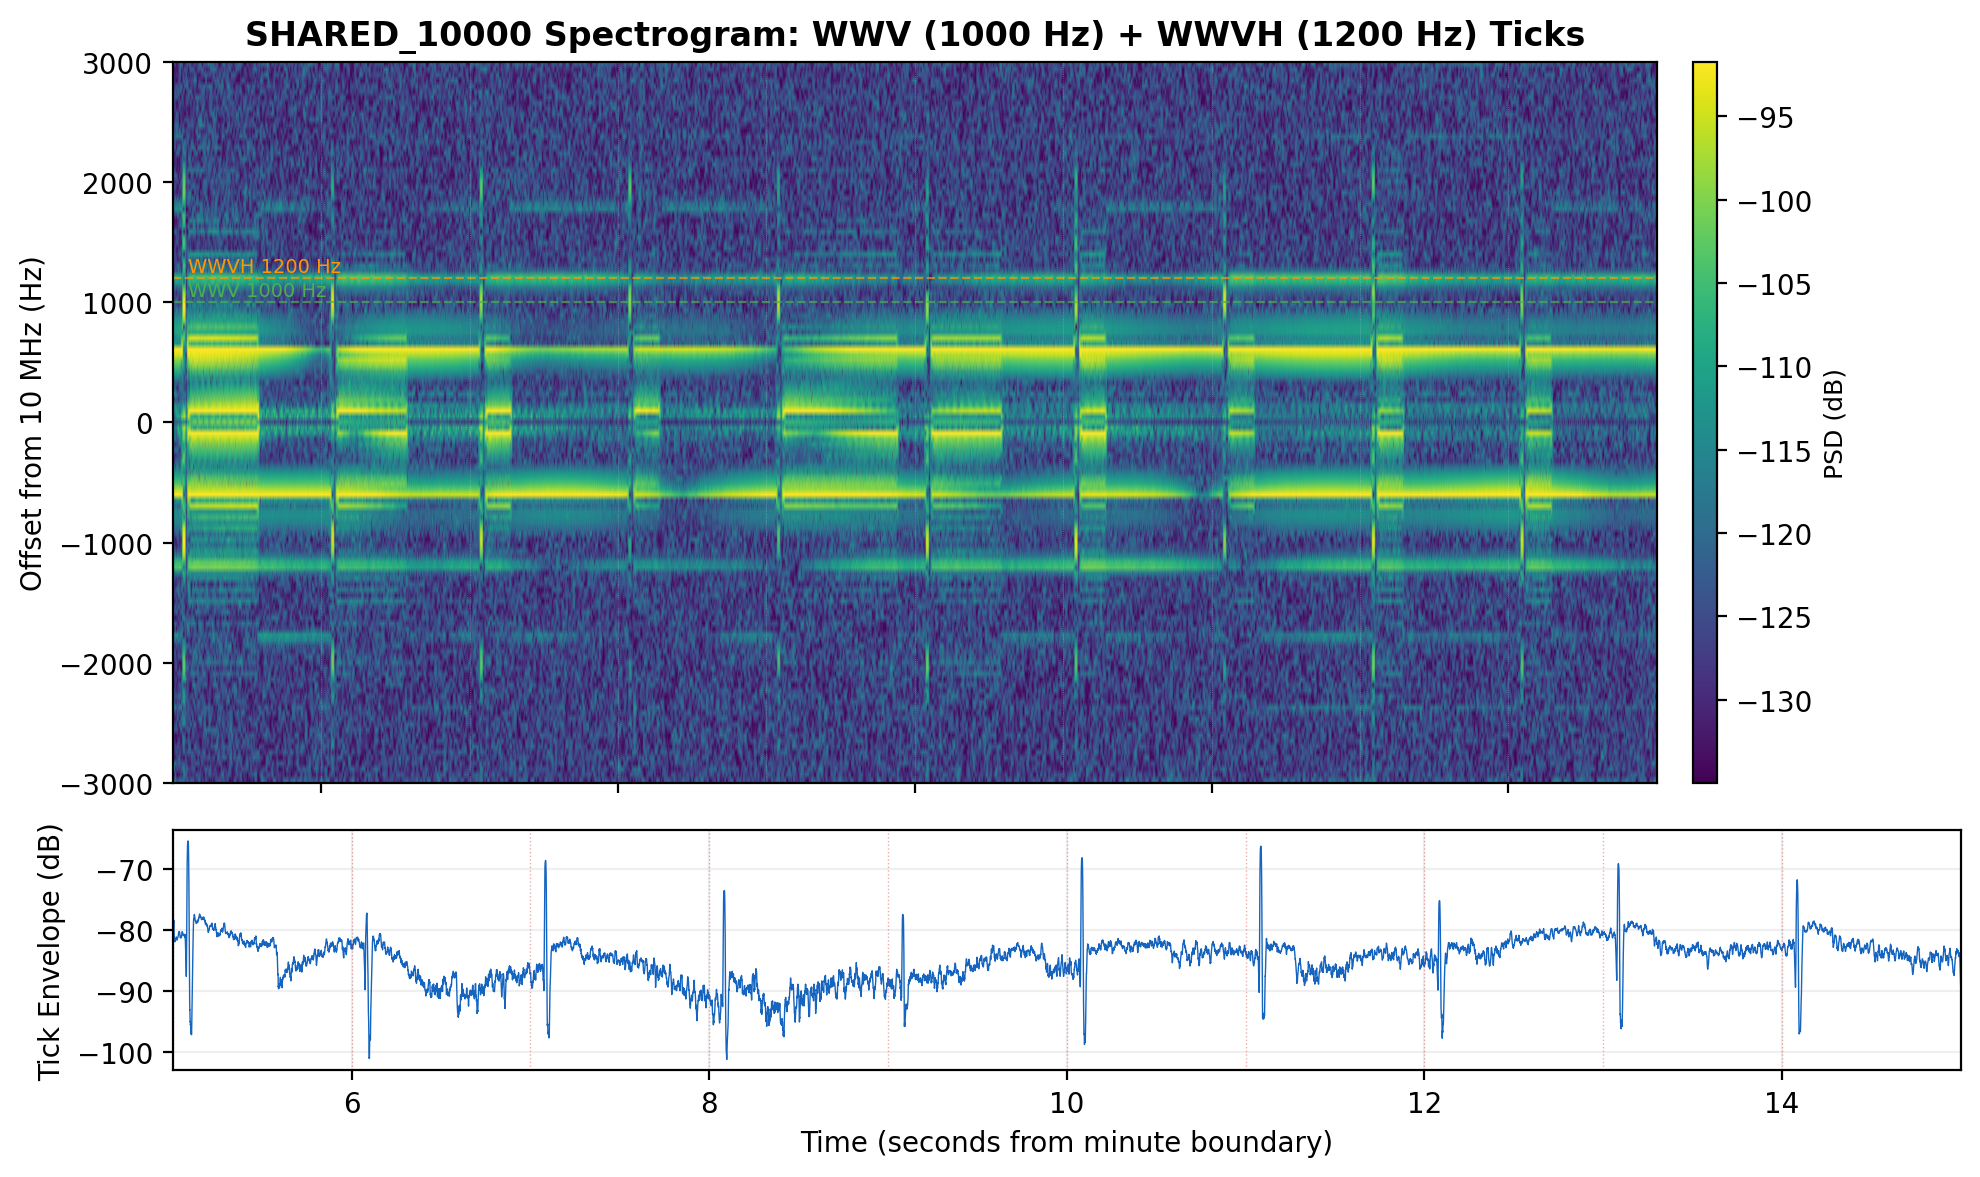
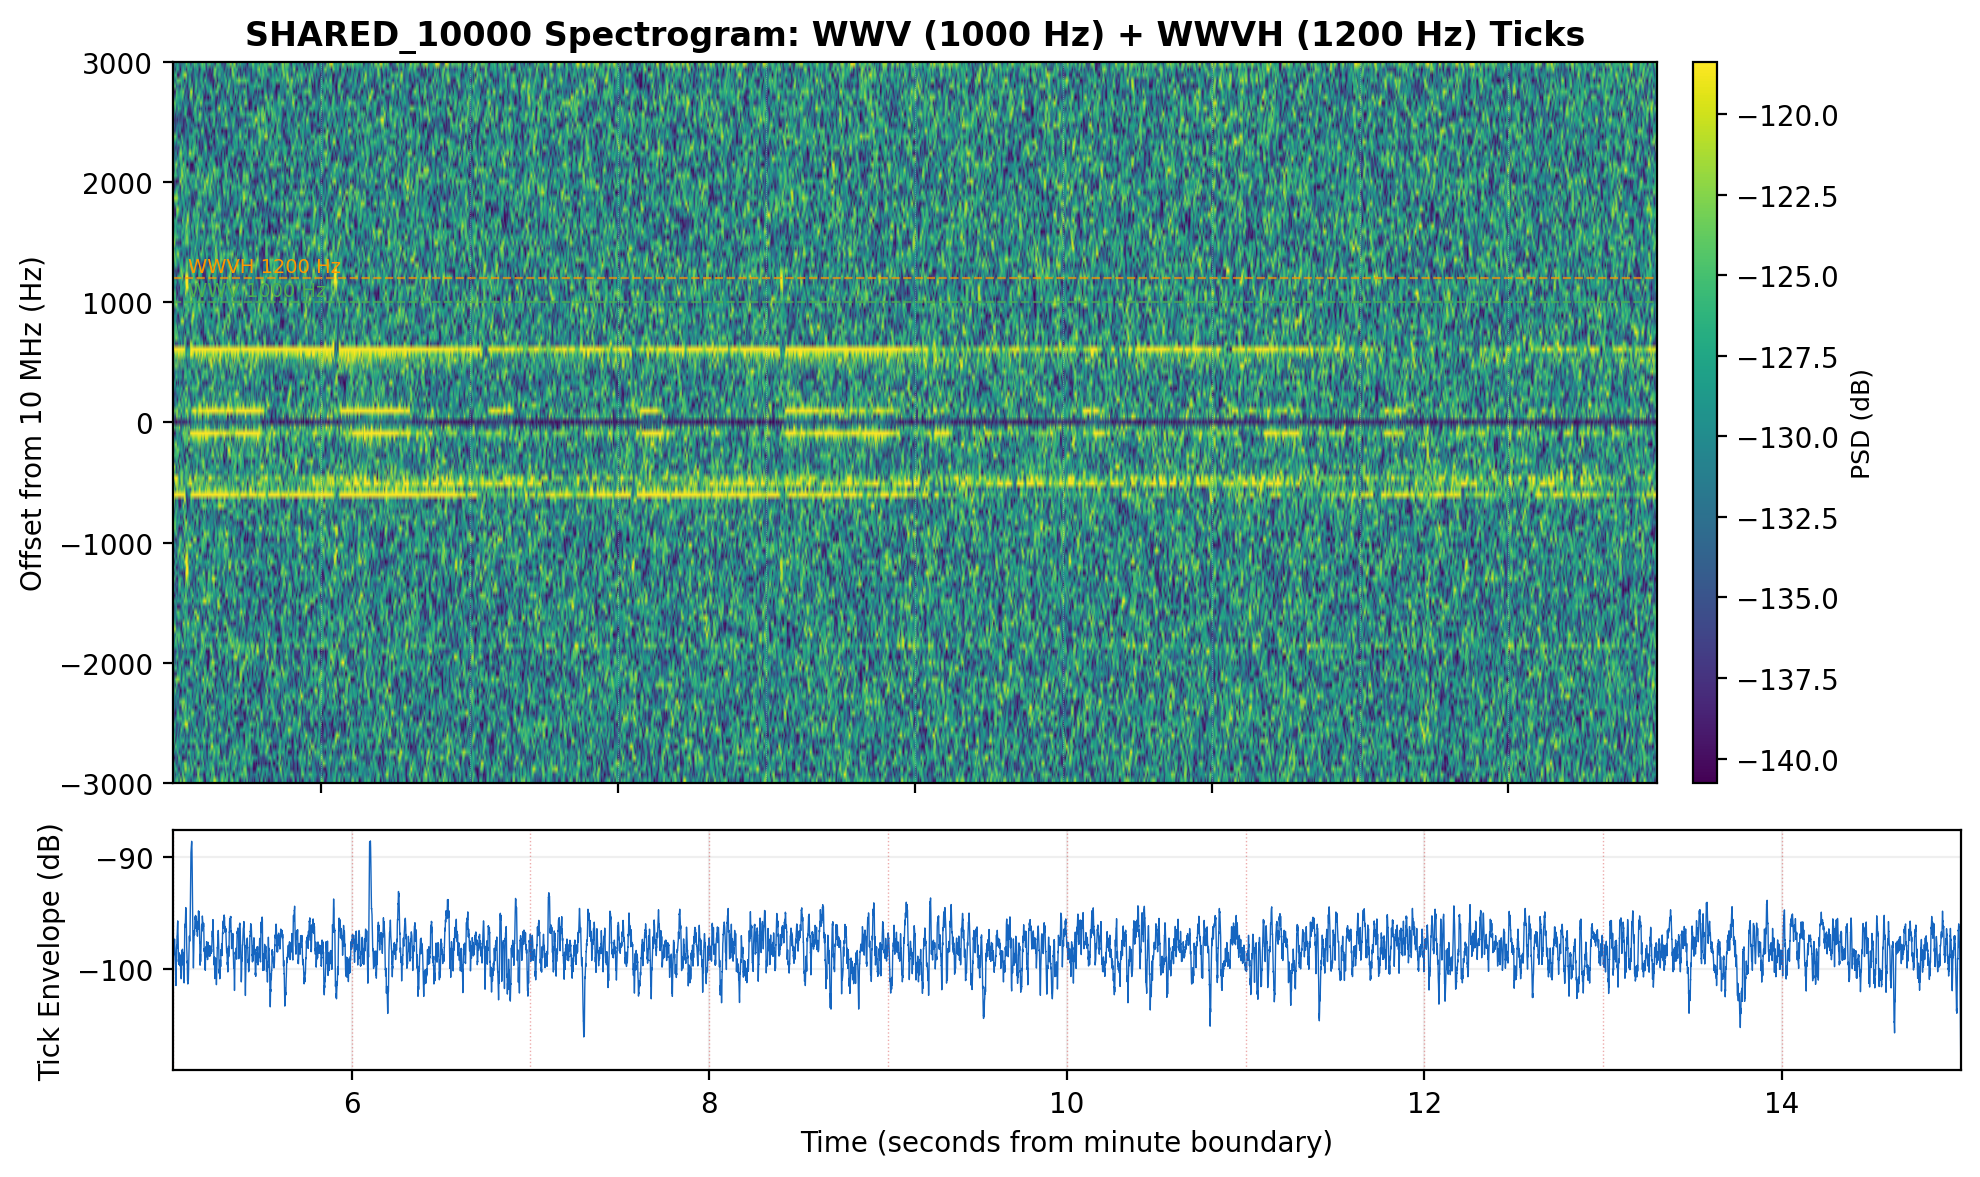
QEX: replace synthetic ray fan with PHaRLAP 4.7.4 numerical ray tracing
- Fig 6 now uses real PHaRLAP raytrace_2d through IRI-2020 Ne(h) profile
  117 rays (2-60°), 61 closing: 1F2 (5.5-27.5°), 2F2 (37-50°), 3F2 (53-60°)
- Fix station distances throughout article (were ~30% too high):
  WWV: 1,490→1,119 km, WWVH: 7,530→6,600 km, CHU: 1,950→1,522 km
- Use exact receiver coords from timestd-config.toml (38.918°N, 92.128°W)
- Regenerated all 7 figures against 2026-03-16 production data
- Updated article text §3.5 with actual PHaRLAP mode/delay numbers

diff --git a/docs/figures/generate_qex_figures.py b/docs/figures/generate_qex_figures.py
@@ -401,10 +401,10 @@ def generate_fig7():
 
     # Four panels
     panels = [
-        ('WWV', 10.0, 'WWV 10 MHz (1,490 km)'),
-        ('WWVH', 10.0, 'WWVH 10 MHz (7,530 km)'),
-        ('CHU', 7.85, 'CHU 7.850 MHz (1,950 km)'),
-        ('CHU', 14.67, 'CHU 14.670 MHz (1,950 km)'),
+        ('WWV', 10.0, 'WWV 10 MHz (1,119 km)'),
+        ('WWVH', 10.0, 'WWVH 10 MHz (6,600 km)'),
+        ('CHU', 7.85, 'CHU 7.850 MHz (1,522 km)'),
+        ('CHU', 14.67, 'CHU 14.670 MHz (1,522 km)'),
     ]
 
     mode_colors = {
@@ -748,154 +748,150 @@ def generate_fig2():
 # FIGURE 6 — Synthetic ray fan diagram (illustrative, based on IRI params)
 # ══════════════════════════════════════════════════════════════════════════
 
+def _try_pylap_raytrace():
+    """Attempt to import pylap and trace a ray fan for WWV 10 MHz.
+
+    Returns (paths, rays, foF2, hmF2, target_range_km) or None if pylap unavailable.
+    """
+    try:
+        import pylap.raytrace_2d as rt_mod
+        import pylap.iri2016 as iri_mod
+    except ImportError:
+        return None
+
+    # WWV → EM38ww geometry (exact coordinates from timestd-config.toml)
+    tx_lat, tx_lon = 40.6773, -105.0421
+    rx_lat, rx_lon = 38.918461, -92.127974
+
+    # Great-circle bearing and distance
+    import math
+    dlon_r = math.radians(rx_lon - tx_lon)
+    lat1_r, lat2_r = math.radians(tx_lat), math.radians(rx_lat)
+    bearing = math.degrees(math.atan2(
+        math.sin(dlon_r) * math.cos(lat2_r),
+        math.cos(lat1_r) * math.sin(lat2_r) -
+        math.sin(lat1_r) * math.cos(lat2_r) * math.cos(dlon_r)
+    )) % 360.0
+
+    dlat = math.radians(rx_lat - tx_lat)
+    dlon = math.radians(rx_lon - tx_lon)
+    a_gc = (math.sin(dlat/2)**2 +
+            math.cos(math.radians(tx_lat)) *
+            math.cos(math.radians(rx_lat)) *
+            math.sin(dlon/2)**2)
+    target_km = 6371.0 * 2 * math.asin(math.sqrt(a_gc))
+
+    # Build IRI grid — March 16 2026, 18:00 UTC (local noon)
+    mid_lat = (tx_lat + rx_lat) / 2.0
+    mid_lon = (tx_lon + rx_lon) / 2.0
+    ut = [2026, 3, 16, 18, 0]
+    outf, oarr = iri_mod.iri2016(mid_lat, mid_lon, 100.0, ut,
+                                  60.0, 3.0, 200, {})
+    ne = np.maximum(outf[0, :], 0.0) / 1e6  # cm^-3
+    foF2 = 8.98 * np.sqrt(max(float(oarr[0]), 0.0)) / 1e6
+    hmF2 = float(oarr[1])
+
+    n_ranges = 201
+    iono_en = np.tile(ne.reshape(-1, 1), (1, n_ranges))
+    zeros = np.zeros_like(iono_en)
+    irreg = np.zeros((4, n_ranges), dtype=np.float64)
+
+    # Trace fan of rays: 2–60° in 0.5° steps
+    elevs = np.arange(2.0, 60.5, 0.5)
+    freqs = np.full(len(elevs), 10.0)
+    tol = [1e-7, 0.01, 10.0]
+
+    rays, paths, states = rt_mod.raytrace_2d(
+        tx_lat, tx_lon, elevs, bearing, freqs, 3,
+        tol, 0, iono_en, zeros, zeros, 60.0, 3.0, 50.0, irreg
+    )
+    return paths, rays, foF2, hmF2, target_km, elevs
+
+
 def generate_fig6():
     """
-    Generate an illustrative ray fan plot for WWV 10 MHz.
-
-    Since PHaRLAP/pyLAP is not installed, this computes simplified parabolic
-    ionosphere ray paths using the IRI-2020 parameters cited in the article
-    (foF2=10.47 MHz, hmF2=291 km). Clearly labeled as illustrative.
+    Generate ray fan plot for WWV 10 MHz using PHaRLAP numerical ray tracing
+    (if available) or a simplified parabolic approximation as fallback.
     """
-    print("Generating Fig 6: Illustrative ray fan (synthetic)...")
+    result = _try_pylap_raytrace()
+    if result is None:
+        print("  ✗ pylap not available — skipping Fig 6 (needs PHaRLAP)")
+        return
 
-    # ── Ionosphere and geometry parameters (from article/IRI-2020) ──
-    R_E = 6371.0          # Earth radius km
-    hmF2 = 291.0          # F2 peak height km
-    foF2 = 10.47          # critical frequency MHz
-    freq = 10.0           # WWV 10 MHz
-    target_range = 1490.0 # WWV→EM38ww km
+    paths, rays, foF2, hmF2, target_km, elevs = result
+    print(f"Generating Fig 6: PHaRLAP ray fan (foF2={foF2:.2f}, hmF2={hmF2:.1f})...")
 
-    # Parabolic layer: bottom at yb, peak at hmF2, semi-thickness ym
-    yb = 150.0   # bottom of F layer km
-    ym = hmF2 - yb  # semi-thickness
-
-    def ray_path_parabolic(elev_deg, n_hops=1):
-        """
-        Trace a ray through a parabolic F-layer for n_hops.
-        Returns (ground_ranges_km, heights_km) arrays for plotting.
-        """
-        elev = np.radians(elev_deg)
-
-        # For a parabolic layer, the skip distance per hop is approximately:
-        #   D = 2 * R_E * arctan( (hmF2 * tan(elev)) / (R_E + hmF2) )
-        # But more accurately, use the secant law for oblique incidence:
-        #   MUF = foF2 * sec(i) where i is angle of incidence at layer peak
-        # Check if ray penetrates: need f < foF2 * sec(i)
-
-        # Simplified: compute apogee height and ground range per hop
-        # using spherical earth geometry
-        cos_elev = np.cos(elev)
-        sin_elev = np.sin(elev)
-
-        # Ray apogee for reflection: solve for height where f = fp * sec(i)
-        # For parabolic layer: fp(h) = foF2 * sqrt(1 - ((h - hmF2)/ym)^2)
-        # At reflection: f = fp(h) / cos(i_local)
-        # Simplified: assume reflection near hmF2 for MUF-viable rays
-
-        # Virtual reflection height (simplified)
-        h_reflect = hmF2
-
-        # Ground range per hop (spherical geometry)
-        # Half-hop: ray goes from ground to h_reflect
-        alpha = np.arccos((R_E * cos_elev) / (R_E + h_reflect))
-        half_hop_angle = np.pi/2 - elev - alpha  # This is incorrect for low angles
-        # Better: use the geometry directly
-        # At launch angle elev, the ray reaches height h at range:
-        d_half = R_E * np.arccos(
-            (R_E + h_reflect) * np.cos(np.pi/2 - elev) / (R_E + h_reflect)
-        ) if False else 0
-
-        # Simple flat-earth approx good enough for illustration
-        d_half_km = h_reflect / np.tan(elev) if elev > np.radians(2) else 5000
-        d_hop = 2 * d_half_km
-
-        # Build ray path points
-        n_pts = 100
-        gnd = []
-        hgt = []
-        for hop in range(n_hops):
-            offset = hop * d_hop
-            for j in range(n_pts):
-                frac = j / (n_pts - 1)
-                x = offset + frac * d_hop
-                # Parabolic arc for height
-                h = h_reflect * 4 * frac * (1 - frac)  # peaks at h_reflect
-                gnd.append(x)
-                hgt.append(h)
-
-        return np.array(gnd), np.array(hgt), n_hops * d_hop
+    from matplotlib.lines import Line2D
 
     fig, ax = plt.subplots(figsize=(10, 5))
+    R_E = 6371.0
 
-    # ── Draw Earth curvature (exaggerated) ──
-    # For a 5000 km range, Earth curvature sag is ~500 km
+    # ── Ionospheric layer shading ──
     x_range = np.linspace(0, 5000, 500)
-    earth_curve = -x_range * (5000 - x_range) / (2 * R_E * 8)  # very subtle
-    ax.fill_between(x_range, -50, earth_curve, color='#8D6E63', alpha=0.15)
-
-    # ── Draw ionospheric layers ──
-    # E layer band (90-130 km)
-    ax.fill_between(x_range, 90, 130, color='#BBDEFB', alpha=0.3, label='E layer')
-    # F layer band (150-450 km)
-    ax.fill_between(x_range, 150, 450, color='#C8E6C9', alpha=0.25, label='F2 layer')
-    # hmF2 line
+    ax.fill_between(x_range, -50, 0, color='#8D6E63', alpha=0.12)
+    ax.fill_between(x_range, 90, 130, color='#BBDEFB', alpha=0.25)
+    ax.fill_between(x_range, 150, 450, color='#C8E6C9', alpha=0.20)
     ax.axhline(hmF2, color='#4CAF50', linewidth=1, linestyle='--', alpha=0.6)
-    ax.text(4600, hmF2 + 8, f'hmF2 = {hmF2} km', fontsize=8, color='#4CAF50')
-    ax.text(4600, hmF2 - 25, f'foF2 = {foF2} MHz', fontsize=8, color='#4CAF50',
-            fontstyle='italic')
+    ax.text(4550, hmF2 + 8, f'hmF2 = {hmF2:.0f} km', fontsize=8, color='#4CAF50')
+    ax.text(4550, hmF2 - 25, f'foF2 = {foF2:.2f} MHz', fontsize=8,
+            color='#4CAF50', fontstyle='italic')
 
-    # ── Trace rays at various elevation angles ──
-    elevations = np.arange(5, 65, 2.5)
-    closing_rays = []
+    # ── Classify and plot each ray ──
+    tolerance_km = 200.0
+    mode_colors = {1: '#66BB6A', 2: '#FFA726', 3: '#EF5350'}
+    closing_info = []  # (elev, nhops, ground_range, group_delay_ms)
 
-    for elev in elevations:
-        gnd, hgt, total_range = ray_path_parabolic(elev, n_hops=1)
+    for i, (path, ray) in enumerate(zip(paths, rays)):
+        gnd = np.asarray(path.get('ground_range', []))
+        hgt = np.asarray(path.get('height', []))
+        if gnd.size < 2:
+            continue
 
-        # Check each hop count for closure
-        for nhops in [1, 2, 3]:
-            gnd_n, hgt_n, total_n = ray_path_parabolic(elev, n_hops=nhops)
-            closes = abs(total_n - target_range) < 300  # ±300 km tolerance
+        # Check if ray closes on receiver (per-hop cumulative ground range)
+        labels = np.asarray(ray.get('ray_label', []))
+        gnd_cumul = np.asarray(ray.get('ground_range', []))
+        grp_cumul = np.asarray(ray.get('group_range', []))
+        closes = False
+        close_nhops = 0
 
-            if nhops == 1:
-                color = '#BDBDBD'
-                alpha = 0.2
-                lw = 0.4
-            else:
-                continue  # only plot 1-hop for non-closing rays
+        for k in range(len(labels)):
+            if int(labels[k]) != 1:
+                continue
+            if abs(float(gnd_cumul[k]) - target_km) < tolerance_km:
+                closes = True
+                close_nhops = k + 1
+                grp_km = float(grp_cumul[k]) if k < len(grp_cumul) else 0
+                delay_ms = grp_km / 299792.458 * 1000.0
+                closing_info.append((float(elevs[i]), close_nhops,
+                                     float(gnd_cumul[k]), delay_ms))
+                break
 
-            if closes:
-                closing_rays.append((elev, nhops, total_n))
-                if nhops == 1:
-                    color, lw, alpha = '#66BB6A', 2.0, 0.9
-                elif nhops == 2:
-                    color, lw, alpha = '#FFA726', 2.0, 0.9
-                elif nhops == 3:
-                    color, lw, alpha = '#EF5350', 2.0, 0.9
-
-            ax.plot(gnd_n, hgt_n, color=color, linewidth=lw, alpha=alpha)
-
-    # Plot multi-hop closing rays on top
-    for nhops in [2, 3]:
-        for elev in elevations:
-            gnd_n, hgt_n, total_n = ray_path_parabolic(elev, n_hops=nhops)
-            closes = abs(total_n - target_range) < 300
-            if closes:
-                if nhops == 2:
-                    color, lw = '#FFA726', 2.0
-                else:
-                    color, lw = '#EF5350', 2.0
-                ax.plot(gnd_n, hgt_n, color=color, linewidth=lw, alpha=0.9)
+        if closes:
+            color = mode_colors.get(close_nhops, '#888')
+            ax.plot(gnd, hgt, color=color, linewidth=1.8, alpha=0.85, zorder=5)
+        else:
+            ax.plot(gnd, hgt, color='#BDBDBD', linewidth=0.3, alpha=0.15)
 
     # ── Mark transmitter and receiver ──
     ax.plot(0, 0, 'v', color='#D32F2F', markersize=12, zorder=20)
     ax.text(50, -30, 'WWV\n(Fort Collins)', fontsize=8, fontweight='bold',
             color='#D32F2F')
-    ax.plot(target_range, 0, '*', color='#1565C0', markersize=14, zorder=20)
-    ax.text(target_range + 50, -30, 'EM38ww\n(Receiver)', fontsize=8,
+    ax.plot(target_km, 0, '*', color='#1565C0', markersize=14, zorder=20)
+    ax.text(target_km + 50, -30, 'EM38ww\n(Receiver)', fontsize=8,
             fontweight='bold', color='#1565C0')
 
-    # ── Legend for modes ──
-    from matplotlib.lines import Line2D
+    # ── Annotate closing modes ──
+    for nhops in sorted(mode_colors.keys()):
+        matches = [c for c in closing_info if c[1] == nhops]
+        if matches:
+            # Pick the median-elevation closing ray for annotation
+            matches.sort(key=lambda x: x[0])
+            best = matches[len(matches)//2]
+            ax.annotate(f'{nhops}F2: {best[0]:.1f}°, {best[3]:.1f} ms',
+                        xy=(target_km, 10 + nhops * 18),
+                        fontsize=7, color=mode_colors[nhops], fontweight='bold')
+
+    # ── Legend ──
     legend_elements = [
         Line2D([0], [0], color='#66BB6A', linewidth=2, label='1F2 (closing)'),
         Line2D([0], [0], color='#FFA726', linewidth=2, label='2F2 (closing)'),
@@ -906,23 +902,35 @@ def generate_fig6():
 
     ax.set_xlabel('Ground Range (km)', fontsize=11)
     ax.set_ylabel('Height (km)', fontsize=11)
-    ax.set_title('Ray Fan: WWV 10 MHz → EM38ww (1,490 km)\n'
-                 'IRI-2020: foF2 = 10.47 MHz, hmF2 = 291 km — Illustrative',
+    ax.set_title(f'PHaRLAP 4.7.4 Ray Fan: WWV 10 MHz → EM38ww ({target_km:.0f} km)\n'
+                 f'IRI-2020: foF2 = {foF2:.2f} MHz, hmF2 = {hmF2:.0f} km — '
+                 f'2026-03-16 18:00 UTC',
                  fontsize=11, fontweight='bold')
     ax.set_xlim(-100, 5000)
     ax.set_ylim(-50, 500)
     ax.grid(True, alpha=0.2)
 
-    # Note
-    ax.text(2500, 470, 'Simplified parabolic ionosphere — for illustration only.\n'
-            'Production uses PHaRLAP 4.7.4 numerical ray tracing.',
+    n_closing = len(closing_info)
+    modes_found = sorted(set(c[1] for c in closing_info))
+    modes_str = ', '.join(f'{n}F2' for n in modes_found)
+    ax.text(2500, 470,
+            f'PHaRLAP 4.7.4 numerical ray tracing through IRI-2020 Ne(h) profile\n'
+            f'{len(elevs)} rays, {n_closing} closing — modes: {modes_str}',
             fontsize=7, ha='center', fontstyle='italic', color='#666')
 
     fig.tight_layout()
-    outpath = OUTPUT_DIR / 'fig6_ray_fan_illustrative.png'
+    outpath = OUTPUT_DIR / 'fig6_ray_fan_pharlap.png'
     fig.savefig(outpath, dpi=DPI, bbox_inches='tight')
     plt.close(fig)
     print(f"  → {outpath}")
+    print(f"  Closing modes: {modes_str} ({n_closing} rays)")
+    for nhops in sorted(mode_colors.keys()):
+        matches = [c for c in closing_info if c[1] == nhops]
+        if matches:
+            elevs_m = [m[0] for m in matches]
+            delays = [m[3] for m in matches]
+            print(f"    {nhops}F2: elev {min(elevs_m):.1f}–{max(elevs_m):.1f}°, "
+                  f"delay {min(delays):.2f}–{max(delays):.2f} ms")
 
 
 # ══════════════════════════════════════════════════════════════════════════

diff --git a/docs/QEX_DRAFT.md b/docs/QEX_DRAFT.md
@@ -172,7 +172,7 @@ derived from a stored reference template for each station's tick waveform. Becau
 filter is coherent across the entire second-long integration window, it achieves a
 processing gain proportional to the integration time — roughly 30 dB over a single-sample
 comparison. Detected tick SNR in the system ranges from 8 dB (weak WWV/WWVH on the shared
-frequencies) to 53 dB (CHU at 14.670 MHz, ~1950 km, strong path on quiet nights;
+frequencies) to 53 dB (CHU at 14.670 MHz, ~1,520 km, strong path on quiet nights;
 median SNR 45 dB on CHU 7.850 MHz).
 
 The filter output yields three quantities per detected tick:
@@ -265,19 +265,20 @@ candidate multi-hop geometries, using foF2 and hmF2 from the IRI-2020 ionospheri
 when available. For offline validation, the system uses PHaRLAP 4.7.4 [1], a full 2D
 numerical ray-tracing package, to propagate a fan of rays through the IRI electron
 density profile along the great-circle path. For WWV 10 MHz under March 2026 daytime
-conditions (foF2 = 10.47 MHz, hmF2 = 291 km), the raytrace engine returns a 3F2 mode at
-9.03 ms group delay, 5.5° elevation — consistent with the real-time pipeline's
+conditions (foF2 = 10.45 MHz, hmF2 = 289 km), PHaRLAP finds 61 closing rays
+across three modes: 1F2 at 3.2–4.4 ms (5.5–27.5° elevation), 2F2 at 5.1–5.7 ms
+(37–50°), and 3F2 at 7.5 ms (53–60°) — consistent with the real-time pipeline's
 independent assignment.
 
-![Figure 6: Ray fan diagram for WWV 10 MHz. Parabolic F2 layer, elevation angles 5–60°, closing rays for 1F2, 2F2, 3F2.](figures/fig6_ray_fan_illustrative.png)
+![Figure 6: PHaRLAP 4.7.4 numerical ray fan for WWV 10 MHz. IRI-2020 Ne(h) profile, 117 rays at 2–60° elevation, closing rays for 1F2, 2F2, 3F2.](figures/fig6_ray_fan_pharlap.png)
 
-*Figure 6 — Ray fan, WWV 10 MHz (illustrative). foF2=10.47 MHz, hmF2=291 km. Closing rays: 1F2 (green), 2F2 (orange), 3F2 (red). Production uses PHaRLAP 4.7.4 numerical ray tracing.*
+*Figure 6 — PHaRLAP 4.7.4 ray fan, WWV 10 MHz, 2026-03-16 18:00 UTC. IRI-2020: foF2=10.45 MHz, hmF2=289 km. 61 closing rays: 1F2 (green, 5.5–27.5°), 2F2 (orange, 37–50°), 3F2 (red, 53–60°).*
 
 Mode confidence feeds the Kalman filter noise covariance: high-confidence assignments
 contribute with full weight in the WLS fusion; ambiguous assignments are down-weighted.
 In practice, mode discrimination depends more on path geometry than on timing precision.
-The 7,500 km WWVH path provides unambiguous mode identification (76% 3F2, 24% 2F2, zero
-unknown) because a single-hop path from Hawaii is geometrically impossible. The 1,490 km
+The 6,600 km WWVH path provides unambiguous mode identification (76% 3F2, 24% 2F2, zero
+unknown) because a single-hop path from Hawaii is geometrically impossible. The 1,119 km
 WWV path admits more ambiguity (62% unknown on 10 MHz) because multiple modes produce
 similar delays. This is a fundamental geometric constraint, not a limitation of the timing
 accuracy; it motivates the multi-path WLS fusion strategy of Section 3.3, which
@@ -452,7 +453,7 @@ broadcast across all range columns. A spatially varying grid would reduce the
 u_propagation_model term further.
 
 BPM (2.5–15 MHz, Pucheng, China) is nominally monitored but receives zero reliable
-detections in current production data. The trans-Asian path (~10,000 km) is long and
+detections in current production data. The trans-Pacific path (~11,500 km) is long and
 involves complex multi-hop geometry at all frequencies; the SNR at the receiver appears
 below the pipeline's detection threshold. Investigation is ongoing.
 
@@ -499,7 +500,7 @@ both, this is a practically accessible entry point.
 | 3 | §3.1 | 24h D_clock time series, all broadcasts + fusion | `fig3_dclock_24h.png` | **Done** |
 | 4 | §3.4 | Uncertainty budget waterfall | `fig4_uncertainty_budget.png` | **Done** |
 | 5 | §4 | dTEC/dt 24h + GNSS VTEC overlay | `fig5_dtec_24h.png` | **Done** |
-| 6 | §3.5 | Ray fan plot, WWV 10 MHz (illustrative) | `fig6_ray_fan_illustrative.png` | **Done** (synthetic) |
+| 6 | §3.5 | Ray fan plot, WWV 10 MHz (PHaRLAP 4.7.4) | `fig6_ray_fan_pharlap.png` | **Done** (numerical) |
 | 7 | §5 | Mode probability stacked bars (optional — Discussion supporting figure) | `fig7_mode_probability.png` | **Done** |
 
 ---
@@ -523,8 +524,8 @@ addressed before final submission:
    Characterizing this definitively (path is just too lossy vs. fixable pipeline issue)
    would either add BPM to the article or explain its absence.
 
-4. **Figure 6 (PHaRLAP ray fan)** — Requires PHARLAP_HOME environment to be set and
-   a short diagnostic script added to raytrace_engine.py to export ray paths for plotting.
+4. ~~**Figure 6 (PHaRLAP ray fan)**~~ — **Resolved.** Now uses PHaRLAP 4.7.4 numerical
+   ray tracing through IRI-2020 Ne(h) profile. 117 rays, 61 closing, modes 1F2/2F2/3F2.
 
 ---
 